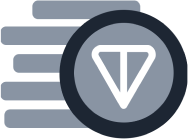
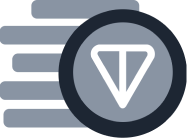
adjusted "top-top" chevron, added horizontal scrolling for cards on mobile, and fixed hero section on mobile

diff --git a/styles/index.css b/styles/index.css
@@ -4,6 +4,7 @@
 
 body {
   background-color: var(--backgroundPage);
+  overflow-x: hidden;
 }
 
 #content-wrapper {
@@ -38,7 +39,7 @@ body {
 }
 
 #to-top:hover {
- filter: brightness(75%);
+  filter: brightness(75%);
 }
 
 .flex-image-wrapper-center {
@@ -76,7 +77,7 @@ nav {
   width: auto;
   align-items: center;
   justify-content: space-around;
-  width: 90%;
+  width: 60%;
 }
 
 .nav-options a {
@@ -141,23 +142,23 @@ nav {
 }
 
 /* HAMBURGER  */
-.checkbox:checked+label>.lines>.bar1 {
+.checkbox:checked + label > .lines > .bar1 {
   transform: rotate(45deg);
   transform-origin: 5%;
   width: 41px;
 }
 
-.checkbox:checked+label>.lines>.bar2 {
+.checkbox:checked + label > .lines > .bar2 {
   transform: translateX(-40px);
   background-color: transparent;
 }
 
-.checkbox:checked+label>.lines>.bar3 {
+.checkbox:checked + label > .lines > .bar3 {
   transform: translateX(40px);
   background-color: transparent;
 }
 
-.checkbox:checked+label>.lines>.bar4 {
+.checkbox:checked + label > .lines > .bar4 {
   transform-origin: 5%;
   transform: rotate(-45deg);
   width: 41px;
@@ -217,28 +218,18 @@ nav {
 }
 
 #greeting {
-  /* border: 1px solid red; */
-  /* position: relative; */
-  /* line-height: 100%; */
   line-height: clamp(3.75rem, 5.5vw, 6.3rem);
 }
 
-#greeting>span:first-of-type {
-  /* border: 1px solid cyan; */
+#greeting > span:first-of-type {
   position: relative;
-  /* top: 10px; */
-  /* line-height: -100%; */
-  font-size: 5.75rem;
   font-size: clamp(4.25rem, 5vw, 5.75rem);
 }
 
 #greeting span.green-text {
-  /* border: 1px solid greenyellow; */
   position: relative;
-  /* top: -10px; */
-  /* line-height: 0; */
   font-size: 9rem;
-  font-size: clamp(5.25rem, 8vw, 9rem)
+  font-size: clamp(5.25rem, 8vw, 9rem);
 }
 
 /* COMMON SECTION STYLES */
@@ -252,7 +243,7 @@ nav {
   gap: 3vw;
 }
 
-.section-base .flex-image-wrapper>img {
+.section-base .flex-image-wrapper > img {
   height: clamp(380px, 390px, 430px);
 }
 
@@ -269,7 +260,7 @@ nav {
   text-align: right;
 }
 
-.section-right .flex-image-wrapper>img {
+.section-right .flex-image-wrapper > img {
   height: clamp(420px, 450px, 480px);
 }
 
@@ -340,7 +331,7 @@ nav {
   width: 100%;
 }
 
-#start-using>img {
+#start-using > img {
   flex: 0 0 auto;
   width: auto;
   aspect-ratio: 1/1;
@@ -372,7 +363,7 @@ footer .img {
   display: flex;
 }
 
-footer .img>svg {
+footer .img > svg {
   width: 100%;
   margin: auto;
 }
@@ -396,31 +387,31 @@ footer .text .links {
   flex-direction: column;
 }
 
-.directory>p {
+.directory > p {
   margin-bottom: 15px;
   font-weight: bold;
   color: var(--textPrimary);
 }
 
-.directory>ul {
+.directory > ul {
   display: flex;
   flex-direction: column;
   gap: 5px;
   padding-left: 0;
 }
 
-.directory>ul li a {
+.directory > ul li a {
   color: var(--textSecondary);
 }
 
-.directory>a {
+.directory > a {
   display: flex;
   align-items: center;
   justify-content: center;
   max-width: 100%;
 }
 
-.directory>a>img {
+.directory > a > img {
   max-width: 100%;
   height: auto;
   max-height: 50px;
@@ -522,7 +513,6 @@ footer .text .links {
     align-items: center;
     justify-content: center;
     text-align: center;
-    /* border: 1px solid cyan; */
   }
 
   .flex-image-wrapper-right img,
@@ -554,8 +544,44 @@ footer .text .links {
   }
 
   footer .img,
-  footer .img>svg {
+  footer .img > svg {
     display: none;
+  }
+
+  /* Mobile Navigation */
+  nav {
+    flex-direction: column;
+    align-items: flex-end;
+    justify-content: start;
+    gap: 30px;
+    position: relative;
+    width: 90%;
+  }
+
+  .hamburger-menu {
+    display: block;
+    margin-top: 35px;
+  }
+
+  .nav-options {
+    display: none;
+    z-index: 10;
+    flex-direction: column;
+    background-color: var(--backgroundContent);
+    width: auto;
+    border-radius: 16px;
+    padding: 25px 20px;
+    gap: 25px;
+    width: auto;
+    transform: translateY(-20px);
+    transition: opacity 0.5s ease, transform 0.5s ease;
+  }
+
+  #to-top {
+    bottom: 3vh;
+    right: 3vh;
+    aspect-ratio: 1/1;
+    width: 6vh;
   }
 }
 
@@ -598,62 +624,62 @@ footer .text .links {
     flex-wrap: wrap;
   }
 
-  .section-base, .section-right {
+  .section-base,
+  .section-right {
     text-align: left;
   }
 
-  .section-base+.section-right {
+  .section-base + .section-right {
     flex-wrap: wrap-reverse;
   }
 
-  .section-base>.flex-image-wrapper-left>img[src="/assets/nft.png"] {
+  .section-base > .flex-image-wrapper-left > img[src="/assets/nft.png"] {
     width: 70%;
   }
 
-  /* Mobile Navigation */
   nav {
-    flex-direction: column;
-    align-items: flex-end;
-    justify-content: start;
-    gap: 30px;
+    width: 100%;
+  }
+
+  #greeting > span:first-of-type {
     position: relative;
+    font-size: 60%;
   }
 
-  .hamburger-menu {
-    display: block;
-    margin-top: 35px;
+  #greeting span.green-text {
+    position: relative;
+    font-size: 9rem;
+    font-size: 95%;
   }
 
-  .nav-options {
-    display: none;
-    z-index: 10;
-    flex-direction: column;
-    background-color: var(--backgroundContent);
-    width: auto;
-    border-radius: 16px;
-    padding: 25px 20px;
-    gap: 25px;
-    width: auto;
-    transform: translateY(-20px);
-    transition: opacity 0.5s ease, transform 0.5s ease;
+  #landing-section .left {
+    word-wrap: break-word;
+    white-space: normal;
+    max-width: none;
+    width: 90vw;
   }
-}
 
-/* @media (max-width: 1020px) {
+  #landing-section {
+    gap: 5%;
+  }
+
+  #s-the-basics #cards {
+    flex-wrap: nowrap;
+    width: 100vw;
+    overflow-x: auto;
+    justify-content: flex-start;
+  }
+
   #s-the-basics .card {
-    max-width: 30%;
-    min-width: 30%;
+    max-width: 260px;
+    min-width: 250px;
+  }
+
+  #s-the-basics .card:nth-of-type(2) {
+    margin-right: 10vw;
+  }
+
+  .section-2 img {
+    width: 65%;
   }
 }
-
-@media (max-width: 925px) {
-  #content-container {
-    width: 70%;
-  }
-}
-
-@media (max-width: 750px) {
-  #content-container {
-    width: 90%;
-  }
-} */

diff --git a/index.html b/index.html
@@ -3,7 +3,10 @@
   <head>
     <meta charset="UTF-8" />
     <meta http-equiv="X-UA-Compatible" content="IE=edge" />
-    <meta name="viewport" content="width=device-width, height=device-height, initial-scale=1.0, minimum-scale=1.0" />
+    <meta
+      name="viewport"
+      content="width=device-width, height=device-height, initial-scale=1.0, minimum-scale=1.0"
+    />
     <title>Tonkeeper Battery</title>
     <link rel="stylesheet" href="./styles/index.css" />
     <link rel="icon" type="image/x-icon" href="favicon.ico" />
@@ -90,7 +93,6 @@
             </p>
           </div>
           <div id="cards">
-            <!-- REMINDER: export photos of containers in higher res -->
             <div class="card">
               <div class="card-text">
                 <h3>Charges</h3>

diff --git a/styles/presets.css b/styles/presets.css
@@ -22,6 +22,7 @@
 
 html {
   scroll-behavior: smooth;
+  overflow-x: hidden;
 }
 
 * {
@@ -32,9 +33,6 @@ html {
   /* Universal font style */
   font-family: Inter, sans-serif;
   color: var(--textPrimary);
-
-  /* for testing only */
-  /* border: 1px solid red; */
 }
 
 /* Main title */
@@ -43,7 +41,7 @@ h1 {
   font-weight: bold;
 }
 
-/*  secondary titles */
+/*  secondary title */
 h2 {
   font-size: 40px;
   font-weight: bold;
@@ -55,7 +53,7 @@ h3 {
   font-weight: 600;
 }
 
-/* Writing in landing part */
+/* Writing in Hero section */
 h4 {
   font-size: 17px;
   font-weight: 500;
@@ -90,7 +88,6 @@ p {
   color: var(--green);
 }
 
-/* remove those damn bullet point */
 ul {
   list-style-type: none;
 }

diff --git a/js/interactivity.js b/js/interactivity.js
@@ -28,7 +28,7 @@ document.addEventListener("DOMContentLoaded", function () {
   var options = document.getElementsByClassName("nav-options")[0];
 
   function resize() {
-    if (window.innerWidth > 700) {
+    if (window.innerWidth > 800) {
       options.style.display = "flex";
       options.classList.remove("show", "hide");
       checkbox.checked = false;
